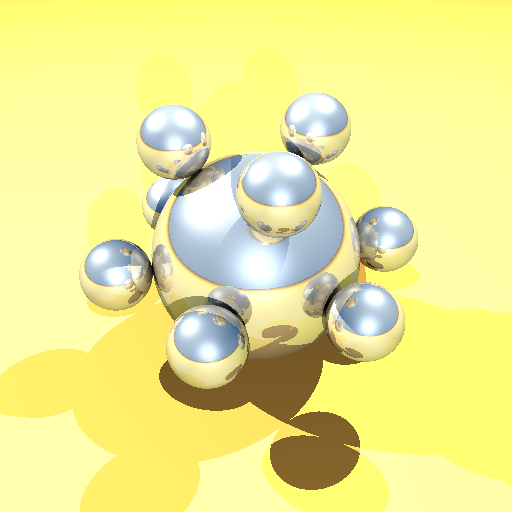
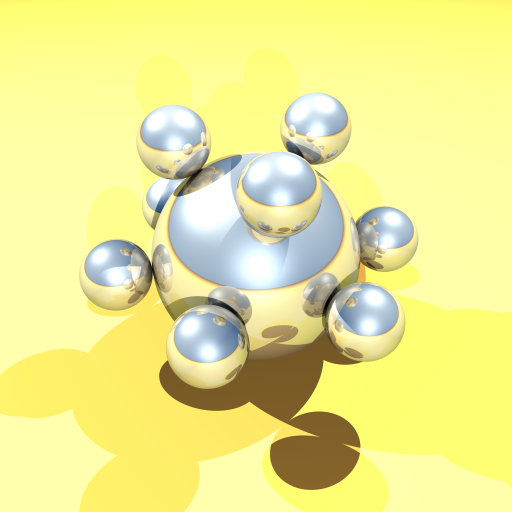
added booleans to switch between shadow types

diff --git a/P3D_Template/P3D_Template/main.cpp b/P3D_Template/P3D_Template/main.cpp
@@ -53,10 +53,11 @@ long myTime, timebase = 0, frame = 0;
 char s[32];
 
 //Enable OpenGL drawing.  
-bool drawModeEnabled = true;
+bool drawModeEnabled = false;
 
 //Enable antialiasing
-bool withAntialiasing = false;
+bool withAntialiasing = true;
+bool softShadows = false;
 
 bool P3F_scene = true; //choose between P3F scene or a built-in random scene
 
@@ -86,7 +87,7 @@ Color rayTracing(Ray ray, int depth, float ior_1);
 
 void antiAliasedSoftShadows(Light* currentLight, Vector& actualHitPoint, Vector& L, Vector& normal, Color& lightSum, Object* obj, Vector& shadingNormal, Ray& ray);
 void notAntiAliasedSoftShadows(Light* currentLight, Vector& actualHitPoint, Vector& L, Vector& normal, Color& lightSum, Object* obj, Vector& shadingNormal, Ray& ray);
-void softShadows(Light* currentLight, Vector& actualHitPoint, Vector& L, Vector& normal, Color& lightSum, Object* obj, Vector& shadingNormal, Ray& ray);
+void hardShadows(Light* currentLight, Vector& actualHitPoint, Vector& L, Vector& normal, Color& lightSum, Object* obj, Vector& shadingNormal, Ray& ray);
 
 bool isPointObstructed(Vector fromPoint, Vector toPoint)
 {
@@ -154,10 +155,15 @@ Color trace(Object* obj, Vector& hitPoint, Vector& normal, Ray ray, float ior_1,
 			{
 				shadingNormal = normal * -1;
 			}
-
-			softShadows(currentLight, actualHitPoint, L, normal, lightSum, obj, shadingNormal, ray);
-			//antiAliasedSoftShadows(currentLight, actualHitPoint, L, normal, lightSum, obj, shadingNormal, ray);
-		//	notAntiAliasedSoftShadows(currentLight, actualHitPoint, L, normal, lightSum, obj, shadingNormal, ray);
+			if(!softShadows)
+			hardShadows(currentLight, actualHitPoint, L, normal, lightSum, obj, shadingNormal, ray);
+			else
+			{
+				if(withAntialiasing)
+					antiAliasedSoftShadows(currentLight, actualHitPoint, L, normal, lightSum, obj, shadingNormal, ray);
+				else
+					notAntiAliasedSoftShadows(currentLight, actualHitPoint, L, normal, lightSum, obj, shadingNormal, ray);
+			}
 
 		}
 	}
@@ -275,7 +281,7 @@ Color trace(Object* obj, Vector& hitPoint, Vector& normal, Ray ray, float ior_1,
 	return (objectColor + (reflectionColor* attenuation) + (refractionColor *(1- attenuation))).clamp();
 }
 
-void softShadows(Light* currentLight, Vector& actualHitPoint, Vector& L, Vector& normal, Color& lightSum, Object* obj, Vector& shadingNormal, Ray& ray)
+void hardShadows(Light* currentLight, Vector& actualHitPoint, Vector& L, Vector& normal, Color& lightSum, Object* obj, Vector& shadingNormal, Ray& ray)
 {
 	Vector sample = currentLight->position;
 
